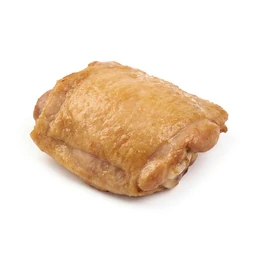
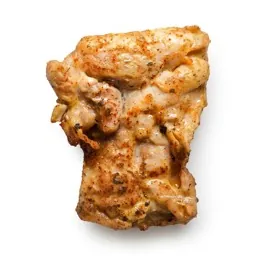
feat(food): skinless thigh photo, new "Chicken thigh, with skin" food
- Replace the skin-on photo shown for "Chicken thigh, skinless".
- Add chicken_thigh_skin_on ("Chicken thigh, with skin") using the old photo.
- Bump bundledCatalogVersion 11 -> 12 so existing installs receive it.
- Catalog is now 169 foods (167 visible); update hard-coded counts and add a test.

diff --git a/test/food_catalog_load_test.dart b/test/food_catalog_load_test.dart
@@ -140,7 +140,7 @@ void main() {
 
     // S-001: a row with no `hidden` declaration loads as visible —
     // guards the default and prevents the new field from silently
-    // hiding the other 166 rows.
+    // hiding the other 167 rows.
     test(
       'S-001: parseCatalogJson leaves a row with no `hidden` field visible',
       () {
@@ -243,20 +243,33 @@ void main() {
   });
 
   group('MockWorkoutRepository catalog loading', () {
-    test('getCatalogFoods returns 166 visible foods after initialize; 168 with '
+    test('getCatalogFoods returns 167 visible foods after initialize; 169 with '
         'includeArchived: true', () async {
       final repo = await _freshRepo();
-      // Default non-archived read returns the 166 visible rows —
+      // Default non-archived read returns the 167 visible rows —
       // `beer_regular` and `red_wine` are bundled as hidden (the
       // app's calorie model cannot represent their alcohol-
       // derived energy — see
       // `docs/plans/2026-08-08-retire-alcohol-catalog-rows-plan.md`).
       final catalogFoods = await repo.getCatalogFoods();
-      expect(catalogFoods.length, 166);
+      expect(catalogFoods.length, 167);
       // Diagnostic read sees every row on disk.
       final allCatalogFoods = await repo.getCatalogFoods(includeArchived: true);
-      expect(allCatalogFoods.length, 168);
+      expect(allCatalogFoods.length, 169);
     });
+
+    test(
+      'chicken thigh ships as separate skinless and with-skin foods',
+      () async {
+        final repo = await _freshRepo();
+        final byId = {for (final f in await repo.getCatalogFoods()) f.id: f};
+        expect(byId['chicken_thigh']?.name, 'Chicken thigh, skinless');
+        final withSkin = byId['chicken_thigh_skin_on'];
+        expect(withSkin, isNotNull, reason: 'with-skin thigh must be bundled');
+        expect(withSkin!.name, 'Chicken thigh, with skin');
+        expect(withSkin.fat, greaterThan(byId['chicken_thigh']!.fat!));
+      },
+    );
 
     test('all catalog foods have required fields', () async {
       final repo = await _freshRepo();
@@ -349,7 +362,7 @@ void main() {
         includeArchived: true,
       )).where((food) => food.unitType == FoodUnitType.grams).toList();
 
-      expect(weightFoods, hasLength(105));
+      expect(weightFoods, hasLength(106));
       for (final food in weightFoods) {
         expect(
           food.referenceLabel,
@@ -628,16 +641,16 @@ void main() {
       // Library should be empty (no user foods added yet)
       expect(libraryFoods, isEmpty);
 
-      // Catalog still has all 168 rows on disk, but the default
-      // non-archived read returns 166 — `beer_regular` and
+      // Catalog still has all 169 rows on disk, but the default
+      // non-archived read returns 167 — `beer_regular` and
       // `red_wine` are bundled as hidden because their alcohol-
       // derived energy is unrepresentable in the Food macro
       // model. The diagnostic `includeArchived: true` read sees
-      // the full 168.
+      // the full 169.
       final catalogFoods = await repo.getCatalogFoods();
-      expect(catalogFoods.length, 166);
+      expect(catalogFoods.length, 167);
       final allCatalogFoods = await repo.getCatalogFoods(includeArchived: true);
-      expect(allCatalogFoods.length, 168);
+      expect(allCatalogFoods.length, 169);
     });
 
     // S-003: bundled beer_regular and red_wine load as hidden with
@@ -652,8 +665,8 @@ void main() {
       final all = await repo.getCatalogFoods(includeArchived: true);
       expect(
         all.length,
-        168,
-        reason: 'bundled catalog row count must stay at 168',
+        169,
+        reason: 'bundled catalog row count must stay at 169',
       );
 
       final beer = await repo.getCatalogFoodById('beer_regular');
@@ -692,7 +705,7 @@ void main() {
 
     // S-004: the default `getCatalogFoods()` (non-archived view)
     // excludes the two hidden rows; the diagnostic
-    // `includeArchived: true` view still returns all 168.
+    // `includeArchived: true` view still returns all 169.
     test(
       'S-004: default getCatalogFoods excludes beer_regular and red_wine',
       () async {
@@ -701,8 +714,8 @@ void main() {
         final visible = await repo.getCatalogFoods();
         expect(
           visible.length,
-          166,
-          reason: '166 visible foods; the 2 alcohol rows are hidden',
+          167,
+          reason: '167 visible foods; the 2 alcohol rows are hidden',
         );
         expect(
           visible.any((f) => f.id == 'beer_regular'),
@@ -716,7 +729,7 @@ void main() {
         );
 
         final all = await repo.getCatalogFoods(includeArchived: true);
-        expect(all.length, 168);
+        expect(all.length, 169);
       },
     );
 
@@ -799,9 +812,9 @@ void main() {
         expect(afterArchive, isNotNull);
         expect(afterArchive!.isArchived, originalArchived);
 
-        // Catalog count should still be 168
+        // Catalog count should still be 169
         final all = await repo.getCatalogFoods(includeArchived: true);
-        expect(all.length, 168);
+        expect(all.length, 169);
       },
     );
 
@@ -833,14 +846,14 @@ void main() {
         reason: 'createFood should not allow injecting into the catalog',
       );
 
-      // The catalog count should still be 168 on disk; the default
-      // non-archived read returns 166 because `beer_regular` and
+      // The catalog count should still be 169 on disk; the default
+      // non-archived read returns 167 because `beer_regular` and
       // `red_wine` are bundled as hidden (the app's calorie model
       // cannot represent their alcohol-derived energy).
       final catalogFoods = await repo.getCatalogFoods();
-      expect(catalogFoods.length, 166);
+      expect(catalogFoods.length, 167);
       final allCatalogFoods = await repo.getCatalogFoods(includeArchived: true);
-      expect(allCatalogFoods.length, 168);
+      expect(allCatalogFoods.length, 169);
     });
 
     test(
@@ -1744,14 +1757,14 @@ void main() {
 
   // ──────────────────────────────────────────────────────────────────────────
   // Food Catalog Expansion Tests (S-006 through S-014). Originally written for
-  // the 150-item expansion; covers the 168-item catalogue's structural
+  // the 150-item expansion; covers the 169-item catalogue's structural
   // invariants (unique ids, calorie reconciliation, non-negative macros,
   // field completeness, per-category distribution, group resolution,
   // search-by-name, bundled-id set parity, seed-vs-JSON parity).
   // ──────────────────────────────────────────────────────────────────────────
 
   group('S-006: Unique IDs (no collisions)', () {
-    test('all 168 catalog foods have unique IDs', () async {
+    test('all 169 catalog foods have unique IDs', () async {
       final repo = await _freshRepo();
       // Use the diagnostic `includeArchived: true` read so the
       // assertion covers every row on disk, not just the visible
@@ -1770,8 +1783,8 @@ void main() {
       );
       expect(
         uniqueIds.length,
-        168,
-        reason: 'Should have exactly 168 unique IDs',
+        169,
+        reason: 'Should have exactly 169 unique IDs',
       );
     });
   });
@@ -1957,7 +1970,7 @@ void main() {
   });
 
   group('S-010: Per-category counts match binding distribution', () {
-    test('all 168 foods are distributed across 9 categories per plan', () async {
+    test('all 169 foods are distributed across 9 categories per plan', () async {
       final repo = await _freshRepo();
       // Use the diagnostic `includeArchived: true` read so this
       // test sees every row on disk — `beer_regular` and `red_wine`
@@ -2003,7 +2016,7 @@ void main() {
       // categories whey affects; allow ±2 on Drinks. The stricter
       // per-category contract lives in the per-food test above.
       final expectedCounts = {
-        'Proteins': (33, 35),
+        'Proteins': (33, 36),
         'Grains & Starches': (21, 21),
         'Fruits': (18, 18),
         'Vegetables': (21, 21),
@@ -2188,7 +2201,7 @@ void main() {
 
   group('S-013: Bundled catalog ID set exhaustive and matches catalog', () {
     test(
-      'FoodLibraryState._bundledCatalogFoodIds matches all 168 catalog IDs',
+      'FoodLibraryState._bundledCatalogFoodIds matches all 169 catalog IDs',
       () async {
         final repo = await _freshRepo();
         // Use the diagnostic `includeArchived: true` read so the
@@ -2209,7 +2222,7 @@ void main() {
         await state.loadCatalogFoods();
 
         final catalogIds = catalogFoods.map((f) => f.id).toSet();
-        expect(catalogIds.length, 168, reason: 'Catalog should have 168 foods');
+        expect(catalogIds.length, 169, reason: 'Catalog should have 169 foods');
 
         // All catalog food IDs should be recognized as bundled
         for (final id in catalogIds) {
@@ -2224,7 +2237,7 @@ void main() {
   });
 
   group('S-014: Generated seed mirrors JSON entry-for-entry', () {
-    test('FoodCatalogSeed matches JSON for all 168 foods', () {
+    test('FoodCatalogSeed matches JSON for all 169 foods', () {
       final asset = File('assets/data/food_catalog.json');
       expect(
         asset.existsSync(),
@@ -2241,10 +2254,10 @@ void main() {
 
       expect(
         loaderFoods.length,
-        168,
-        reason: 'Loader should produce 168 foods',
+        169,
+        reason: 'Loader should produce 169 foods',
       );
-      expect(seedFoods.length, 168, reason: 'Seed should contain 168 foods');
+      expect(seedFoods.length, 169, reason: 'Seed should contain 169 foods');
 
       final seedById = {for (final f in seedFoods) f.id: f};
 

diff --git a/lib/mock/food_catalog_seed.dart b/lib/mock/food_catalog_seed.dart
@@ -22,7 +22,7 @@ import '../data/models/models.dart';
 /// the `groupId` FK). Keep the two in lockstep with the loader map in
 /// `FoodCatalogLoader._categoryToGroupId`.
 class FoodCatalogSeed {
-  /// All 168 catalog foods.
+  /// All 169 catalog foods.
   static final List<Food> sampleCatalogFoods = _buildCatalogFoods();
 
   static List<Food> _buildCatalogFoods() {
@@ -57,6 +57,22 @@ class FoodCatalogSeed {
         fiber: 0,
         fat: 10,
         sodium: 84,
+        createdAtMs: 1700000000000,
+        updatedAtMs: 1700000000000,
+      ),
+      const Food(
+        id: 'chicken_thigh_skin_on',
+        name: 'Chicken thigh, with skin',
+        groupId: 'food-group-proteins',
+        unitType: FoodUnitType.grams,
+        referenceAmount: 100,
+        referenceLabel: 'g',
+        isCatalog: true,
+        protein: 24,
+        carbs: 0,
+        fiber: 0,
+        fat: 15,
+        sodium: 93,
         createdAtMs: 1700000000000,
         updatedAtMs: 1700000000000,
       ),

diff --git a/test/food_library_test.dart b/test/food_library_test.dart
@@ -722,7 +722,7 @@ void main() {
     // with `hidden: true`; the search must return zero matches
     // for any query that resolves to those rows (or to any
     // hidden row added later). The empty-query full-list result
-    // also excludes them — only 166 visible rows surface.
+    // also excludes them — only 167 visible rows surface.
     test('S-005: searchCatalogFoods filters out hidden catalog rows', () async {
       final repo = await _freshRepo();
       final state = FoodLibraryState(repo);
@@ -753,8 +753,8 @@ void main() {
       final all = await state.searchCatalogFoods('');
       expect(
         all.length,
-        166,
-        reason: 'empty-query search returns the 166 visible rows only',
+        167,
+        reason: 'empty-query search returns the 167 visible rows only',
       );
       expect(all.any((f) => f.id == 'beer_regular'), isFalse);
       expect(all.any((f) => f.id == 'red_wine'), isFalse);

diff --git a/lib/core/constants/catalog_version.dart b/lib/core/constants/catalog_version.dart
@@ -44,9 +44,11 @@
 ///   `parentId`, primary / secondary roles, the approved re-tagging and the
 ///   Trapezius → Traps rename) we bumped to `11`, so existing installs
 ///   receive the new groups, parent links, roles and renames on next launch.
+///   When `chicken_thigh_skin_on` ("Chicken thigh, with skin") was added we
+///   bumped to `12` so existing installs receive the new food on next launch.
 library;
 
-const int bundledCatalogVersion = 11;
+const int bundledCatalogVersion = 12;
 
 /// Entity-type identifiers used in the seed-entry tombstone markers.
 ///

diff --git a/test/food_category_groupid_migration_test.dart b/test/food_category_groupid_migration_test.dart
@@ -329,7 +329,7 @@ void main() {
       // This test asserts the on-disk catalog has the full bundled
       // shape, not the user-facing subset.
       final catalogFoods = await repo.getCatalogFoods(includeArchived: true);
-      expect(catalogFoods.length, 168);
+      expect(catalogFoods.length, 169);
       // All catalog rows must already carry the resolved groupId.
       for (final food in catalogFoods) {
         expect(

diff --git a/lib/state/food_library_state.dart b/lib/state/food_library_state.dart
@@ -1556,6 +1556,7 @@ class FoodLibraryState extends ChangeNotifier {
     'chia_seeds',
     'chicken_breast',
     'chicken_thigh',
+    'chicken_thigh_skin_on',
     'chicken_wing',
     'chickpeas',
     'chocolate_chip_cookie',

diff --git a/docs/constants_reference.md b/docs/constants_reference.md
@@ -569,7 +569,7 @@ so storage, unit, and widget agree.
 
 | Constant | Value | Notes |
 |----------|-------|-------|
-| `bundledCatalogVersion` | `11` | Content version of the bundled catalog (exercises, capability / muscle-group / equipment links, food catalog, demo routines) |
+| `bundledCatalogVersion` | `12` | Content version of the bundled catalog (exercises, capability / muscle-group / equipment links, food catalog, demo routines) |
 
 At app start the device compares its stored version against
 `bundledCatalogVersion`; when the bundled version is newer,
